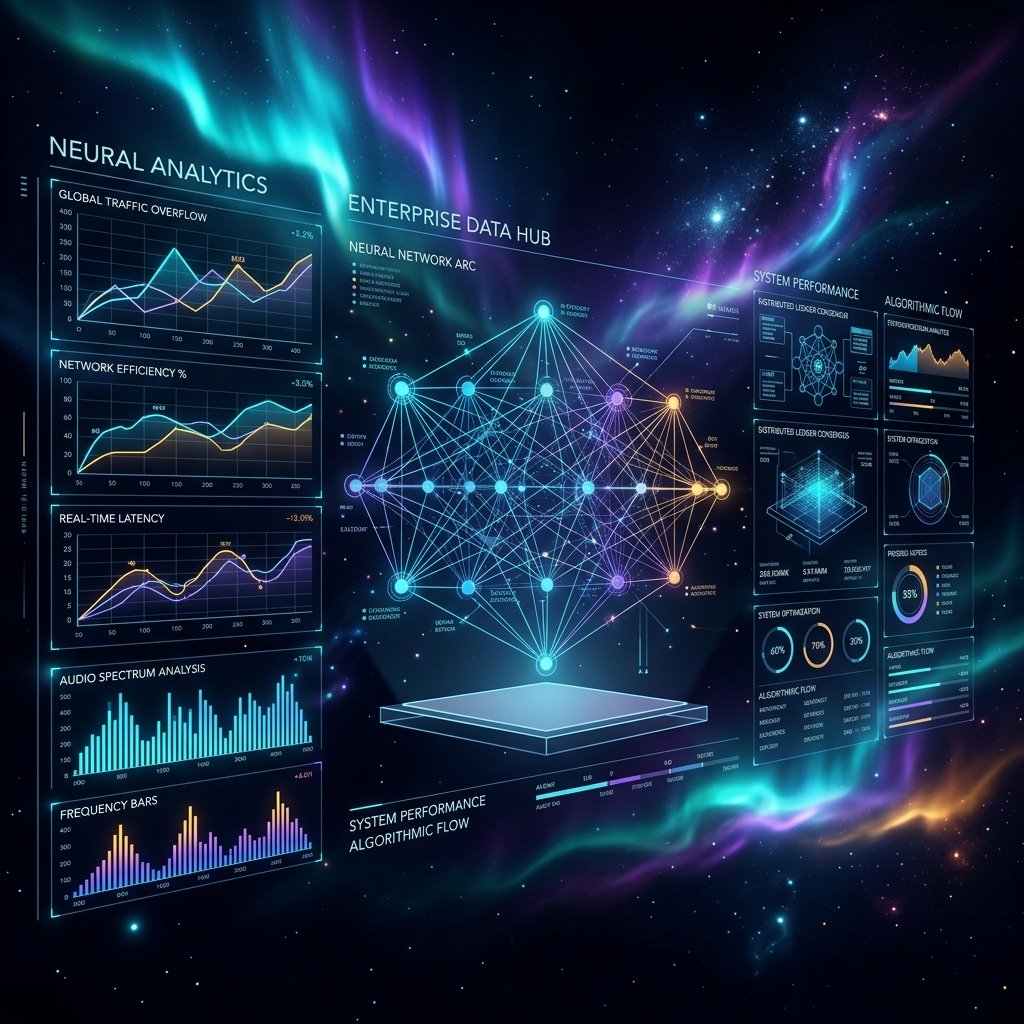
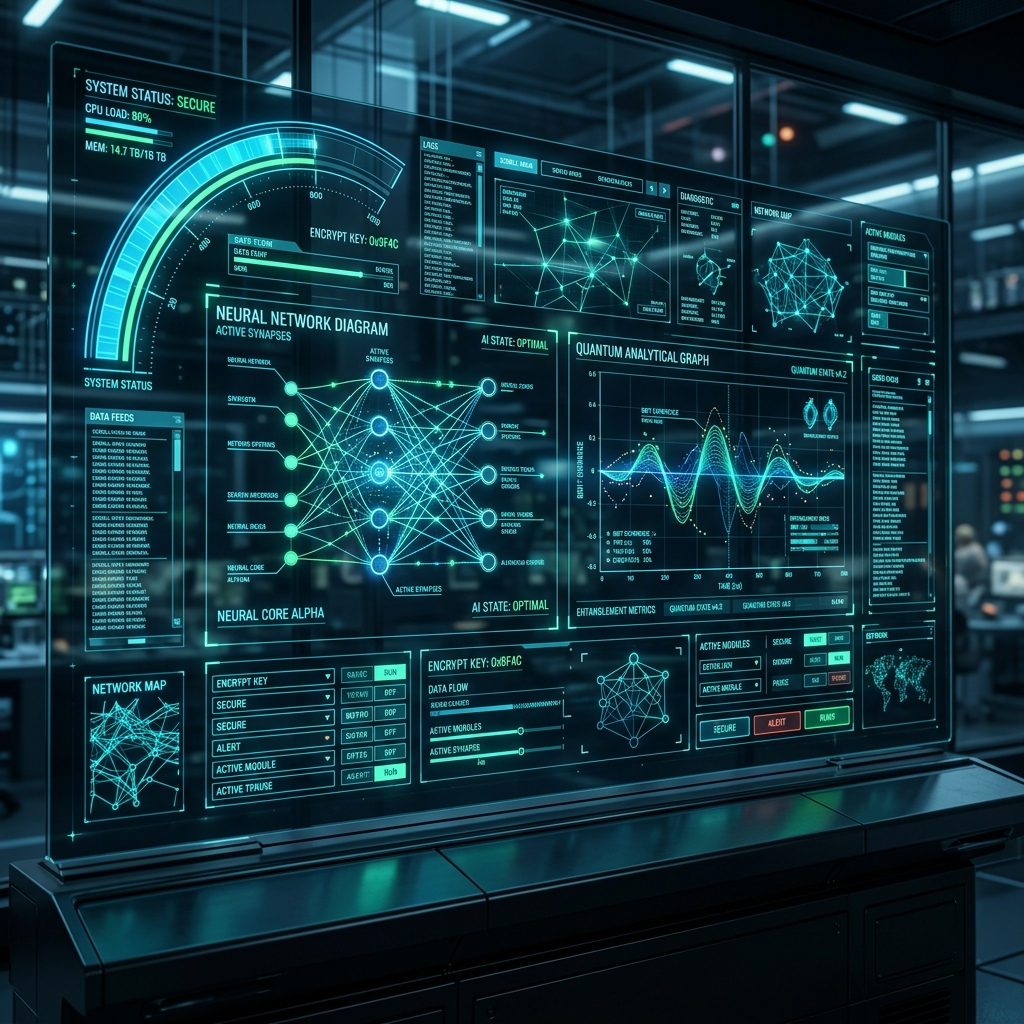
style: slim layout for project gallery hero section and widescreen image

diff --git a/app/dashboard/page.tsx b/app/dashboard/page.tsx
@@ -3293,16 +3293,16 @@ export default function DashboardPage() {
           {/* 6⃣ 신설: 브랜드 쇼케이스 프로젝트 갤러리 */}
           {dashboardSubView === 'project_gallery' && (
             <section className={`max-w-7xl mx-auto ${mounted ? 'fade-in-up' : 'opacity-0'} space-y-6 mb-8`}>
-              <div className="glass rounded-3xl p-6 sm:p-8 border border-amber-500/15 bg-gradient-to-b from-amber-950/5 to-[#080808] shadow-2xl relative overflow-hidden flex flex-col md:flex-row items-center justify-between gap-6">
+              <div className="glass rounded-3xl p-5 sm:p-6 lg:p-7 border border-amber-500/15 bg-gradient-to-b from-amber-950/5 to-[#080808] shadow-2xl relative overflow-hidden flex flex-col md:flex-row items-center justify-between gap-5 lg:gap-8">
                 
                 {/* 좌측: 브랜드 맞춤형 테크 쇼케이스 텍스트 영역 (CPO/CDO 3대 기획 필러 탑재) */}
-                <div className="flex-1 flex flex-col justify-between relative z-10 space-y-6">
+                <div className="flex-1 flex flex-col justify-between relative z-10 space-y-4">
                   <div className="absolute top-0 left-0 w-80 h-80 bg-violet-500/5 rounded-full blur-3xl pointer-events-none" />
                   
-                  <div className="space-y-2.5">
+                  <div className="space-y-2">
                     <div className="flex items-center gap-3">
                       <span className="text-3xl shrink-0 animate-bounce">🎨</span>
-                      <h2 className="text-xl sm:text-2xl font-black text-white flex items-center gap-2">
+                      <h2 className="text-lg sm:text-xl lg:text-2xl font-black text-white flex items-center gap-2">
                         HiveDesk <span className="text-shimmer">Project Gallery</span>
                       </h2>
                     </div>
@@ -3312,7 +3312,7 @@ export default function DashboardPage() {
                   </div>
 
                   {/* CPO 이안 & CDO 하나 3대 핵심 가치 구조화 핀 보드 */}
-                  <div className="grid grid-cols-1 sm:grid-cols-3 gap-4 border-t border-white/10 pt-5">
+                  <div className="grid grid-cols-1 sm:grid-cols-3 gap-4 border-t border-white/10 pt-4">
                     <div className="space-y-1">
                       <div className="flex items-center gap-1.5">
                         <span className="text-sm">📊</span>
@@ -3347,9 +3347,9 @@ export default function DashboardPage() {
 
 
                 {/* 우측: 생성된 브랜드 맞춤형 테크 쇼케이스 이미지 배너 탑재 */}
-                <div className="w-full md:w-[380px] h-64 md:h-auto relative overflow-hidden border border-white/10 rounded-2xl shrink-0">
+                <div className="w-full md:w-[350px] lg:w-[440px] h-40 sm:h-44 md:h-[155px] lg:h-[175px] relative overflow-hidden border border-white/10 rounded-2xl shrink-0 self-center">
                   <img 
-                    src="/gallery_banner.png?v=2" 
+                    src="/gallery_banner.png?v=3" 
                     alt="HiveDesk Tech Showcase Banner" 
                     className="w-full h-full object-cover opacity-85 hover:scale-105 transition-transform duration-700" 
                     loading="eager"
